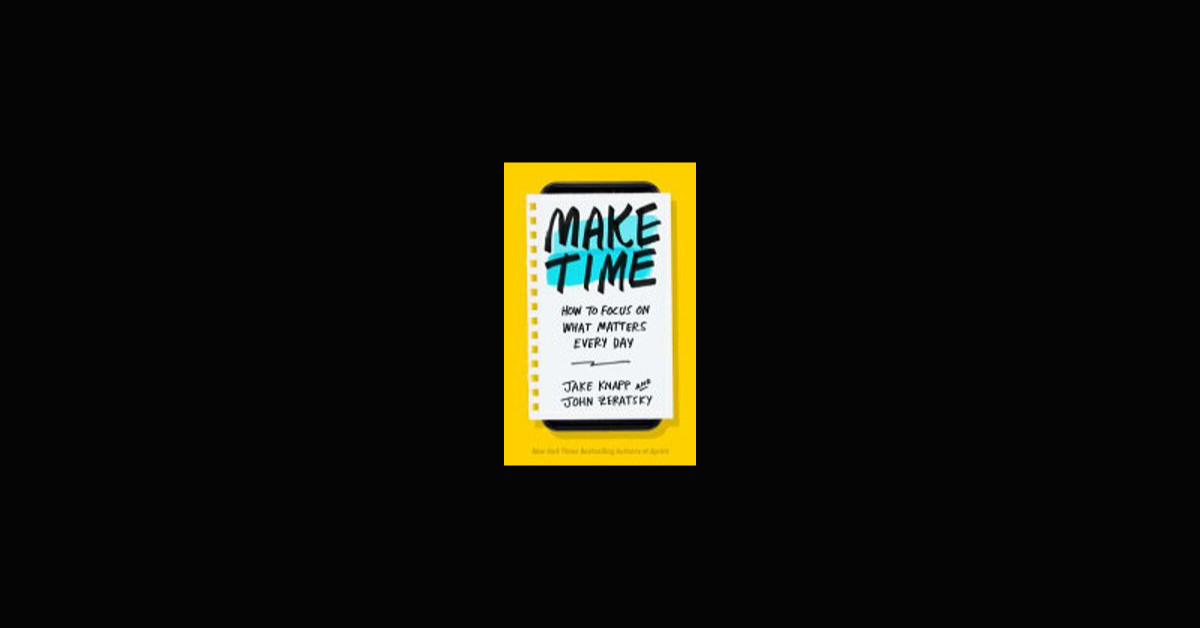
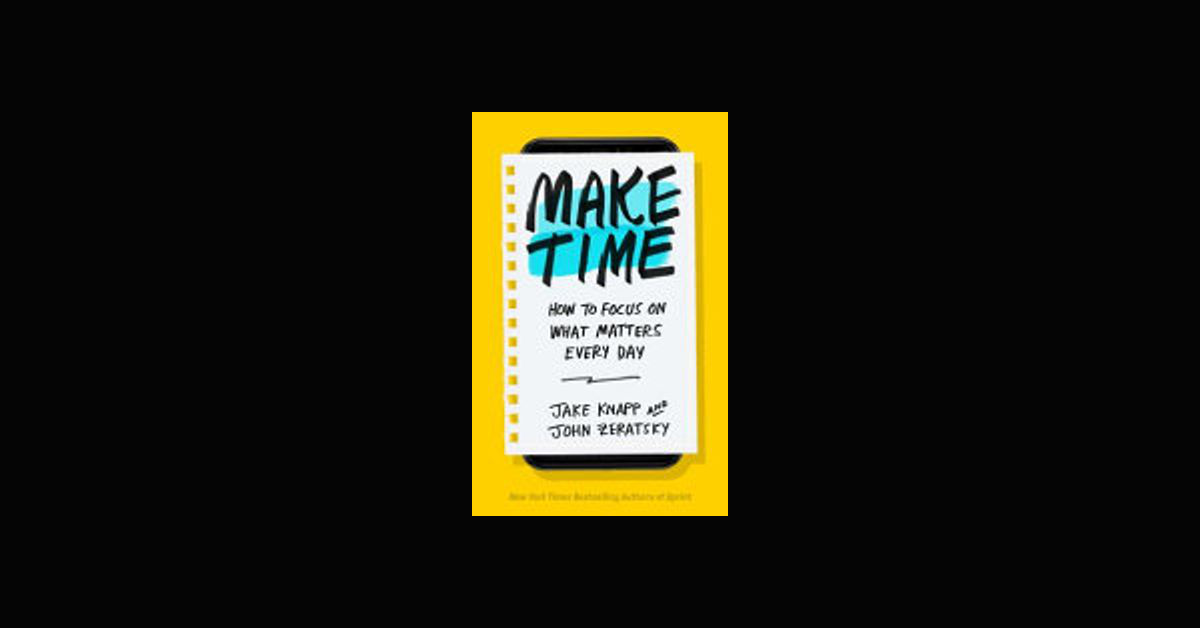
regenerate meta images with x2 scale

Changed region(s): [[0.37, 0.1513, 0.6167, 0.8471]]

diff --git a/src/common/image.ts b/src/common/image.ts
@@ -44,9 +44,10 @@ export const generateMetaImage = async ({
   data: ImageData
   scale?: number
 }): Promise<MetaImage> => {
-  const filePath = `/images/meta/${directory}/${fileName}.png`
+  const relativePath = `/images/meta/${directory}/${fileName}.png`
+  const absolutePath = `${PUBLIC_FOLDER}/${relativePath}`
 
-  if (!fs.existsSync(`${PUBLIC_FOLDER}/${filePath}`)) {
+  if (!fs.existsSync(absolutePath)) {
     const canvas = createCanvas(META_IMAGE_WIDTH, META_IMAGE_HEIGHT)
     const context = canvas.getContext('2d')
     context.fillStyle = '#050505'
@@ -71,8 +72,8 @@ export const generateMetaImage = async ({
     }
     context.drawImage(image, coordinates.x, coordinates.y)
 
-    fs.writeFileSync(filePath, canvas.toBuffer('image/png'))
+    fs.writeFileSync(absolutePath, canvas.toBuffer('image/png'))
   }
 
-  return { url: SITE_URL + filePath, width: META_IMAGE_WIDTH, height: META_IMAGE_HEIGHT }
+  return { url: SITE_URL + relativePath, width: META_IMAGE_WIDTH, height: META_IMAGE_HEIGHT }
 }

diff --git a/src/common/api.ts b/src/common/api.ts
@@ -66,7 +66,7 @@ export const getBookMeta = async (fileName: string): Promise<Book['meta']> => {
     directory: 'books',
     fileName,
     data: coverImageData,
-    scale: 1.5,
+    scale: 2,
   })
 
   return {
